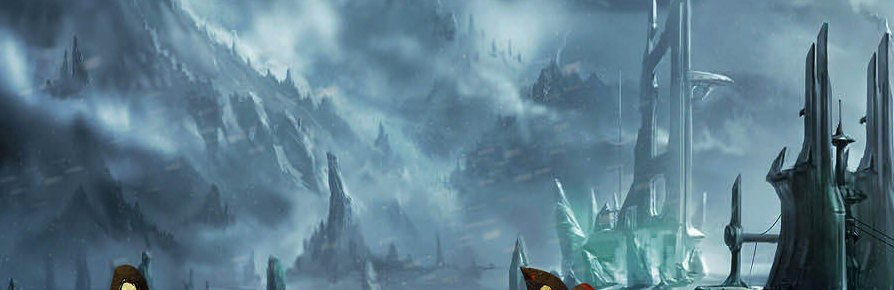
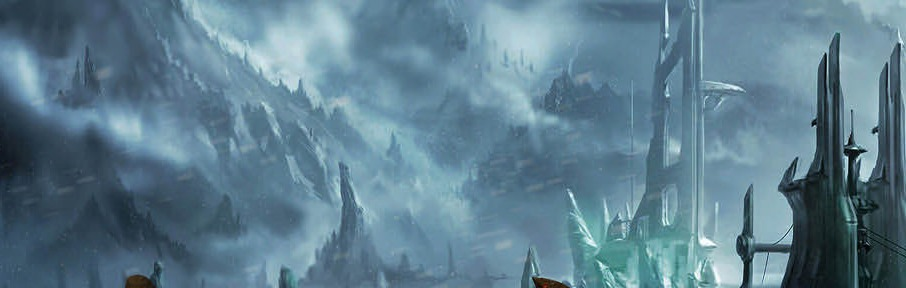
Full-width header with the loading-screen art

diff --git a/index.html b/index.html
@@ -456,9 +456,11 @@ input.pl-hin:focus{outline:none;border-color:var(--accent)}input.pl-hin.pl-bad{b
 @media (max-width:600px){.pl-fb{padding:6px 8px;gap:5px 12px}.pl-chip{padding:2px 8px;font-size:12.5px}.pl-fg{gap:3px}input.pl-hin{width:160px}
 .pl-cards{grid-template-columns:repeat(auto-fill,minmax(min(150px,100%),1fr));gap:6px}.pl-card{padding:6px 7px;font-size:13px}.pl-card .pl-cg{font-size:12.5px}.pl-card .pl-ch .ico{display:none}.pl-card .pl-hn{white-space:normal;overflow-wrap:break-word;line-height:1.15}.pl-card .pl-ch{align-items:flex-start}.pl-card .pl-sb{display:none}
 .pl-steps>li{padding:5px 6px 5px 34px;font-size:13.5px}.pl-steps>li.pl-n::before{left:4px}.pl-steps>li.pl-rp{padding-left:8px}.pl-steps .pl-ul{padding-left:14px}.card.pl-focus{padding:10px 10px}}
+/* FULL-BLEED HEADER (user 2026-09-25): the loading-screen art fills the page width, edge to edge */
+.hero{margin:-24px calc(-1 * clamp(16px,4vw,48px)) 14px;border-bottom:1px solid var(--rule)}.hero .banner{width:100%;height:clamp(170px,26vw,320px);max-height:none;border-radius:0;box-shadow:none;margin:0;object-fit:cover;object-position:center 35%}.hero-t{border-radius:0;background:linear-gradient(180deg,rgba(8,12,17,0) 45%,var(--bg) 100%),radial-gradient(ellipse at center,rgba(8,12,17,.5) 0%,rgba(8,12,17,.1) 60%,rgba(8,12,17,0) 80%)}body:not([data-page="home"]) .hero .banner{height:clamp(64px,9vw,110px);max-height:none}@media (max-width:600px){body:not([data-page="home"]) .hero .banner{height:60px}}
 </style>
-<div class="wrap">
 <a class="hero" href="#home"><img class="banner" src="img/banner.jpg" alt=""><span class="hero-t"><span class="hero-n">The Adventurer's Path</span><span class="hero-s">RPG Wiki</span></span></a>
+<div class="wrap">
 <h1 class="vh">Adventurer's Path Wiki</h1>
 <p class="sub"><img src="img/logo.png" alt="">Adventurer's Path Wiki · Map version 1.02 · Wiki updated <a id="wupd" href="#changelog">25 Sep 2026</a></p>
 <div class="search"><input id="q" type="search" placeholder="search: dark core, giant scythe, troll hunt, storm warrior, enhance ..." autofocus><span class="small" id="qcount"></span></div>
